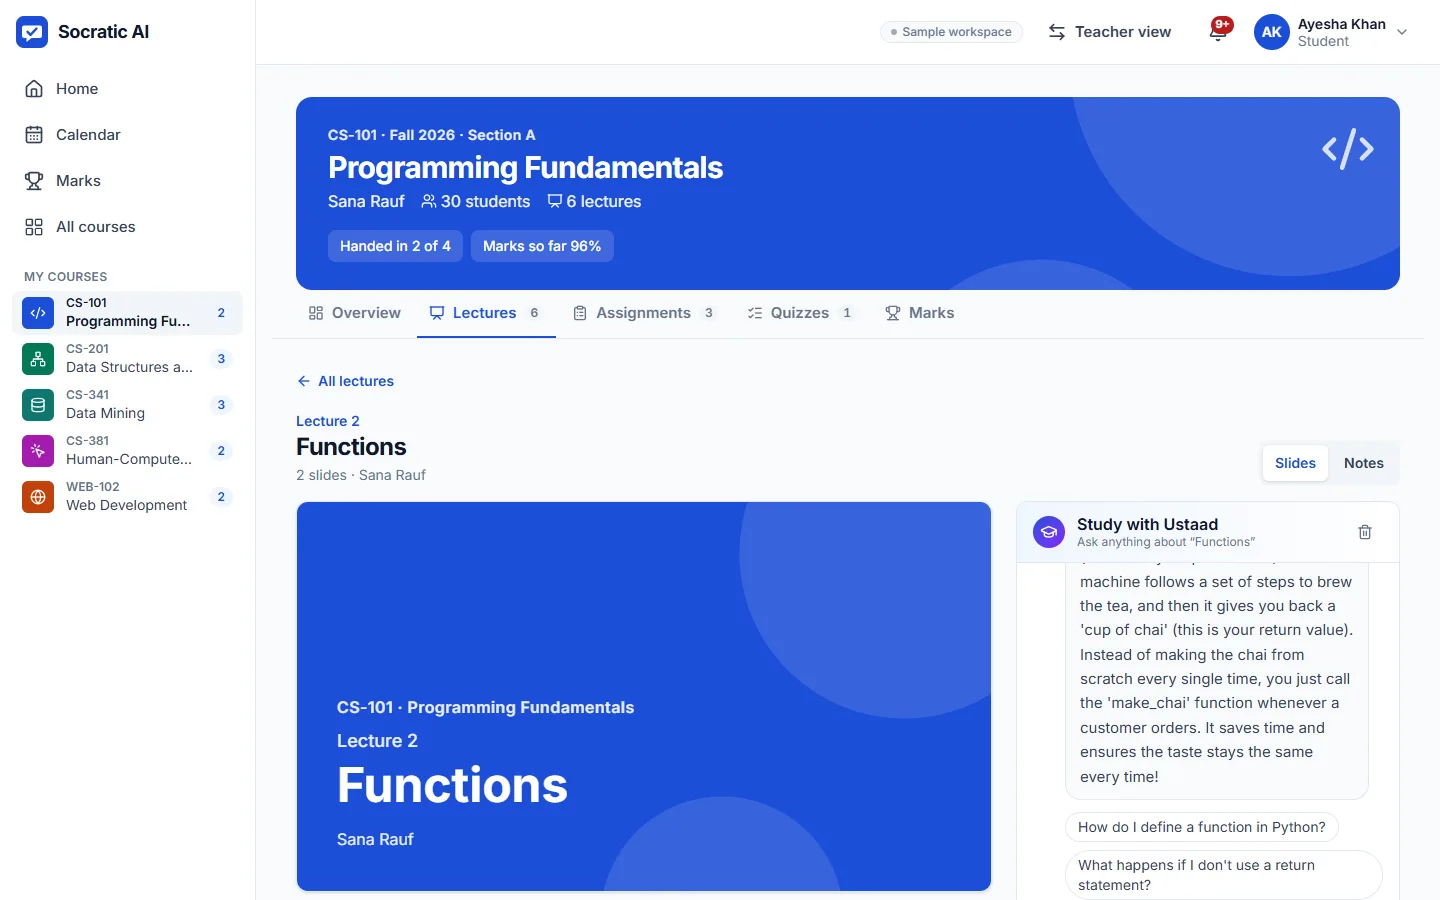
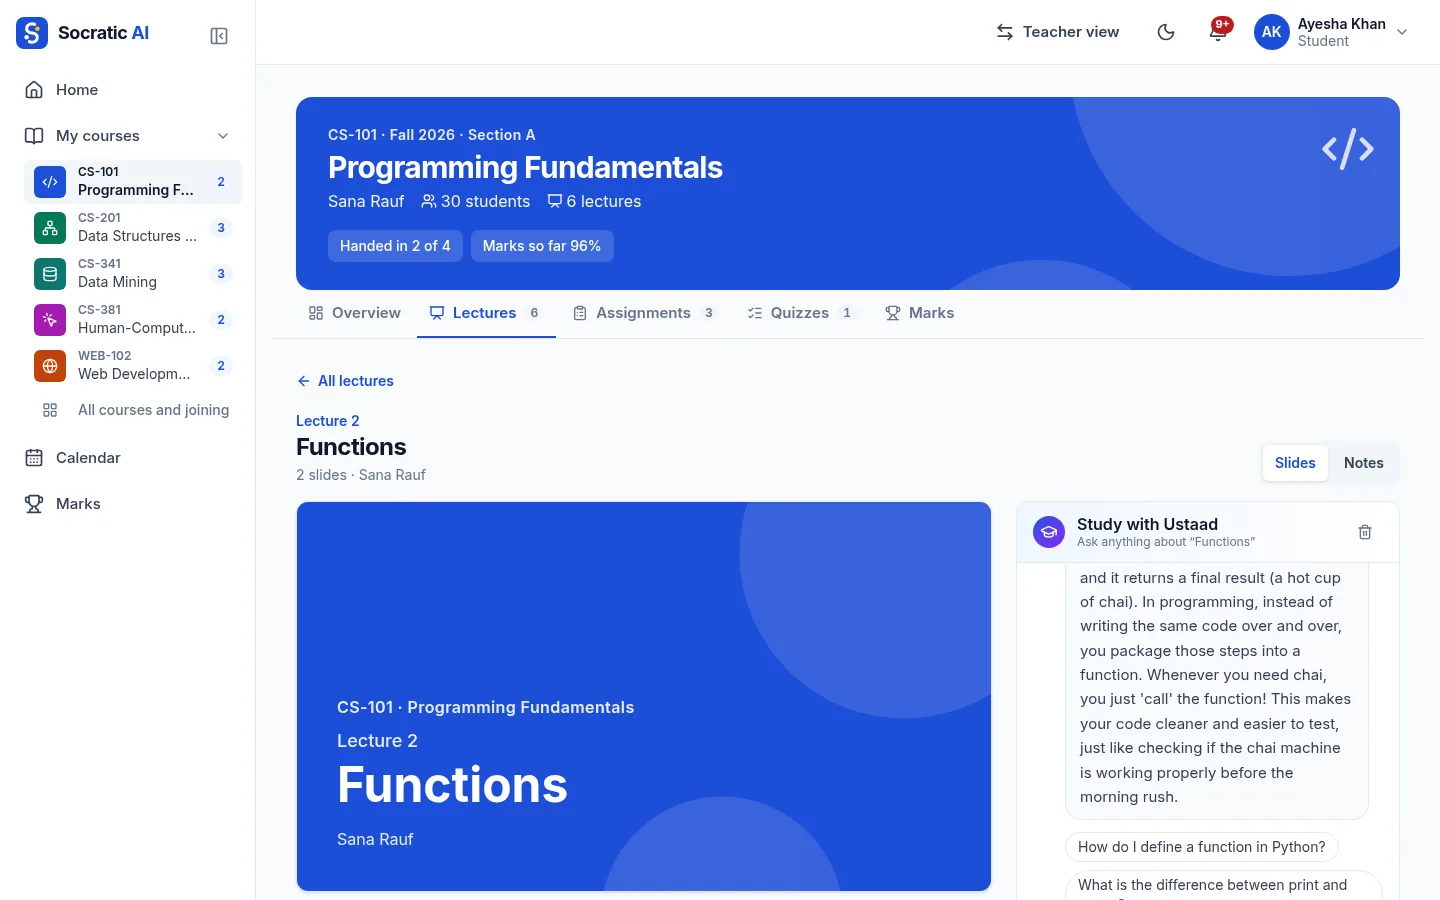
Landing screenshots retaken with the new layout; smoke test covers the sidebar and theme

diff --git a/scripts/smoke-ui.ts b/scripts/smoke-ui.ts
@@ -7,6 +7,8 @@ import path from "node:path";
 
 const BASE = process.argv[2] ?? "http://localhost:3000";
 const OUT = process.argv[3] ?? "smoke-screens";
+/** The student's courses, listed under "My courses" in the sidebar. */
+const COURSE_LINK = "nav[aria-label='Main'] a[href^='/student/courses/']";
 const CHROME = process.env.CHROME_PATH ?? "/usr/bin/google-chrome";
 mkdirSync(OUT, { recursive: true });
 
@@ -59,7 +61,17 @@ async function main() {
     ok(`"Try as student" → student home in ${Date.now() - t1} ms`);
     await s.waitForFunction(() => document.body.innerText.includes("Cricket Over Tracker"), { timeout: 10000 });
     await shot(s, "2-student-home-1440");
-    (await s.$eval("body", (b) => b.innerText.includes("Sample workspace"))) ? ok("sample-data label visible") : fail("sample-data label missing");
+    (await s.$eval("body", (b) => /Sample workspace|\bdemo\b/i.test(b.innerText))) ? fail("a sample or demo label is visible") : ok("no sample or demo label in the product");
+    // Sidebar folds to an icon rail and back; the theme switch turns dark mode on and off.
+    await s.click("button[aria-label='Collapse the sidebar']");
+    await s.waitForSelector("button[aria-label='Expand the sidebar']", { timeout: 3000 });
+    await s.click("button[aria-label='Expand the sidebar']");
+    await s.waitForSelector("button[aria-label='Collapse the sidebar']", { timeout: 3000 });
+    ok("sidebar collapses to icons and expands again");
+    await s.click("button[aria-label='Switch to dark mode']");
+    (await s.$eval("html", (h) => h.classList.contains("dark"))) ? ok("dark mode on") : fail("dark mode did not turn on");
+    await s.click("button[aria-label='Switch to light mode']");
+    (await s.$eval("html", (h) => !h.classList.contains("dark"))) ? ok("back to light mode") : fail("light mode did not come back");
     const leftovers = await s.$eval("body", (b) => [/[-ۿ]/.test(b.innerText) && "Urdu script", /Hackathon/i.test(b.innerText) && "hackathon label"].filter(Boolean));
     leftovers.length ? fail(`removed content is back: ${leftovers.join(", ")}`) : ok("no Urdu labels or hackathon label");
 
@@ -99,9 +111,9 @@ async function main() {
 
     // ------------------------------------------------ workspace: a real student session
     await s.goto(`${BASE}/student`, { waitUntil: "domcontentloaded" });
-    await s.waitForFunction(() => document.querySelectorAll("[data-course-card]").length > 0, { timeout: 15000 });
-    const courseCount = await s.$$eval("[data-course-card]", (cs) => cs.length);
-    courseCount >= 3 ? ok(`student home lists ${courseCount} courses (lived-in institution)`) : fail(`only ${courseCount} course(s) on student home`);
+    await s.waitForFunction((sel) => document.querySelectorAll(sel).length > 0, { timeout: 15000 }, COURSE_LINK);
+    const courseCount = await s.$$eval(COURSE_LINK, (cs) => cs.length);
+    courseCount >= 3 ? ok(`sidebar lists ${courseCount} courses (lived-in institution)`) : fail(`only ${courseCount} course(s) in the sidebar`);
 
     // A JavaScript lab: runs in its own worker
     await showAllTasks(s);
@@ -118,7 +130,7 @@ async function main() {
 
     // A written task: plain-text editor, paste blocked, live word count
     await s.goto(`${BASE}/student`, { waitUntil: "domcontentloaded" });
-    await s.waitForSelector("[data-course-card]", { timeout: 15000 });
+    await s.waitForSelector(COURSE_LINK, { timeout: 15000 });
     await showAllTasks(s);
     await s.waitForFunction(() => document.body.innerText.includes("Usability Review of a University Website"), { timeout: 15000 });
     await s.locator("a ::-p-text(Usability Review of a University Website)").click();
@@ -136,7 +148,7 @@ async function main() {
 
     // The Python lab used for the full journey below
     await s.goto(`${BASE}/student`, { waitUntil: "domcontentloaded" });
-    await s.waitForSelector("[data-course-card]", { timeout: 15000 });
+    await s.waitForSelector(COURSE_LINK, { timeout: 15000 });
     await showAllTasks(s);
     await s.waitForFunction(() => document.body.innerText.includes("Cricket Over Tracker"), { timeout: 15000 });
     await s.locator("a ::-p-text(Cricket Over Tracker)").click();
@@ -176,7 +188,7 @@ async function main() {
     await s.setViewport({ width: 1920, height: 1080 });
     await shot(s, "7-workspace-ustaad-1920");
     await s.goto(`${BASE}/student`, { waitUntil: "domcontentloaded" });
-    await s.waitForSelector("[data-course-card]", { timeout: 15000 });
+    await s.waitForSelector(COURSE_LINK, { timeout: 15000 });
     await showAllTasks(s);
     await s.waitForFunction(() => document.body.innerText.includes("In progress"), { timeout: 10000 });
     ok('student home now shows "In progress"');
@@ -248,8 +260,8 @@ async function main() {
     ok("switched back to the student view");
 
     // Course page and the student's view of the teacher's mark
-    await s.waitForSelector("a[data-course-card]", { timeout: 15000 });
-    await s.locator("a[data-course-card] ::-p-text(Programming Fundamentals)").click();
+    await s.waitForSelector(COURSE_LINK, { timeout: 15000 });
+    await s.locator(`${COURSE_LINK} ::-p-text(Programming Fundamentals)`).click();
     await s.waitForFunction(() => document.body.innerText.includes("This week's lecture") && document.body.innerText.includes("Announcements"), { timeout: 15000 });
     ok("student course page: overview with announcements and this week's lecture");
     await shot(s, "17-course-page");
@@ -273,7 +285,7 @@ async function main() {
     await s.waitForFunction(() => document.body.innerText.includes("Marked: 7/10"), { timeout: 15000 });
     ok('course marks show the confirmed mark "Marked: 7/10"');
     await s.goto(`${BASE}/student`, { waitUntil: "domcontentloaded" });
-    await s.waitForSelector("a[data-course-card]", { timeout: 15000 });
+    await s.waitForSelector(COURSE_LINK, { timeout: 15000 });
 
     // ------------------------------------------------ timed quiz: one question at a time → result
     await showAllTasks(s);

diff --git a/scripts/marketing-shots.ts b/scripts/marketing-shots.ts
@@ -28,11 +28,11 @@ async function shot(p: Page, name: string) {
     await s.setViewport({ width: 1440, height: 900, deviceScaleFactor: 1 });
     await s.goto(BASE, { waitUntil: "domcontentloaded" });
     await s.locator("button ::-p-text(Try as student)").click();
-    await s.waitForFunction(() => location.pathname === "/student" && document.querySelectorAll("[data-course-card]").length > 0, { timeout: 60000 });
+    await s.waitForFunction(() => location.pathname === "/student" && document.querySelectorAll("nav a[href^='/student/courses/']").length > 0, { timeout: 60000 });
     await wait(800);
     await shot(s, "student-home");
 
-    const course = await s.$$eval("[data-course-card]", (as) => (as.find((a) => a.textContent?.includes("Programming Fundamentals")) as HTMLAnchorElement).href);
+    const course = await s.$$eval("nav a[href^='/student/courses/']", (as) => (as.find((a) => a.textContent?.includes("Programming Fundamentals")) as HTMLAnchorElement).href);
     await s.goto(`${course}/lectures/2`, { waitUntil: "domcontentloaded" });
     await s.waitForSelector("section[aria-label='Study with Ustaad']", { timeout: 20000 });
     await s.locator("section[aria-label='Study with Ustaad'] button ::-p-text(Give me a real-life example)").click();
